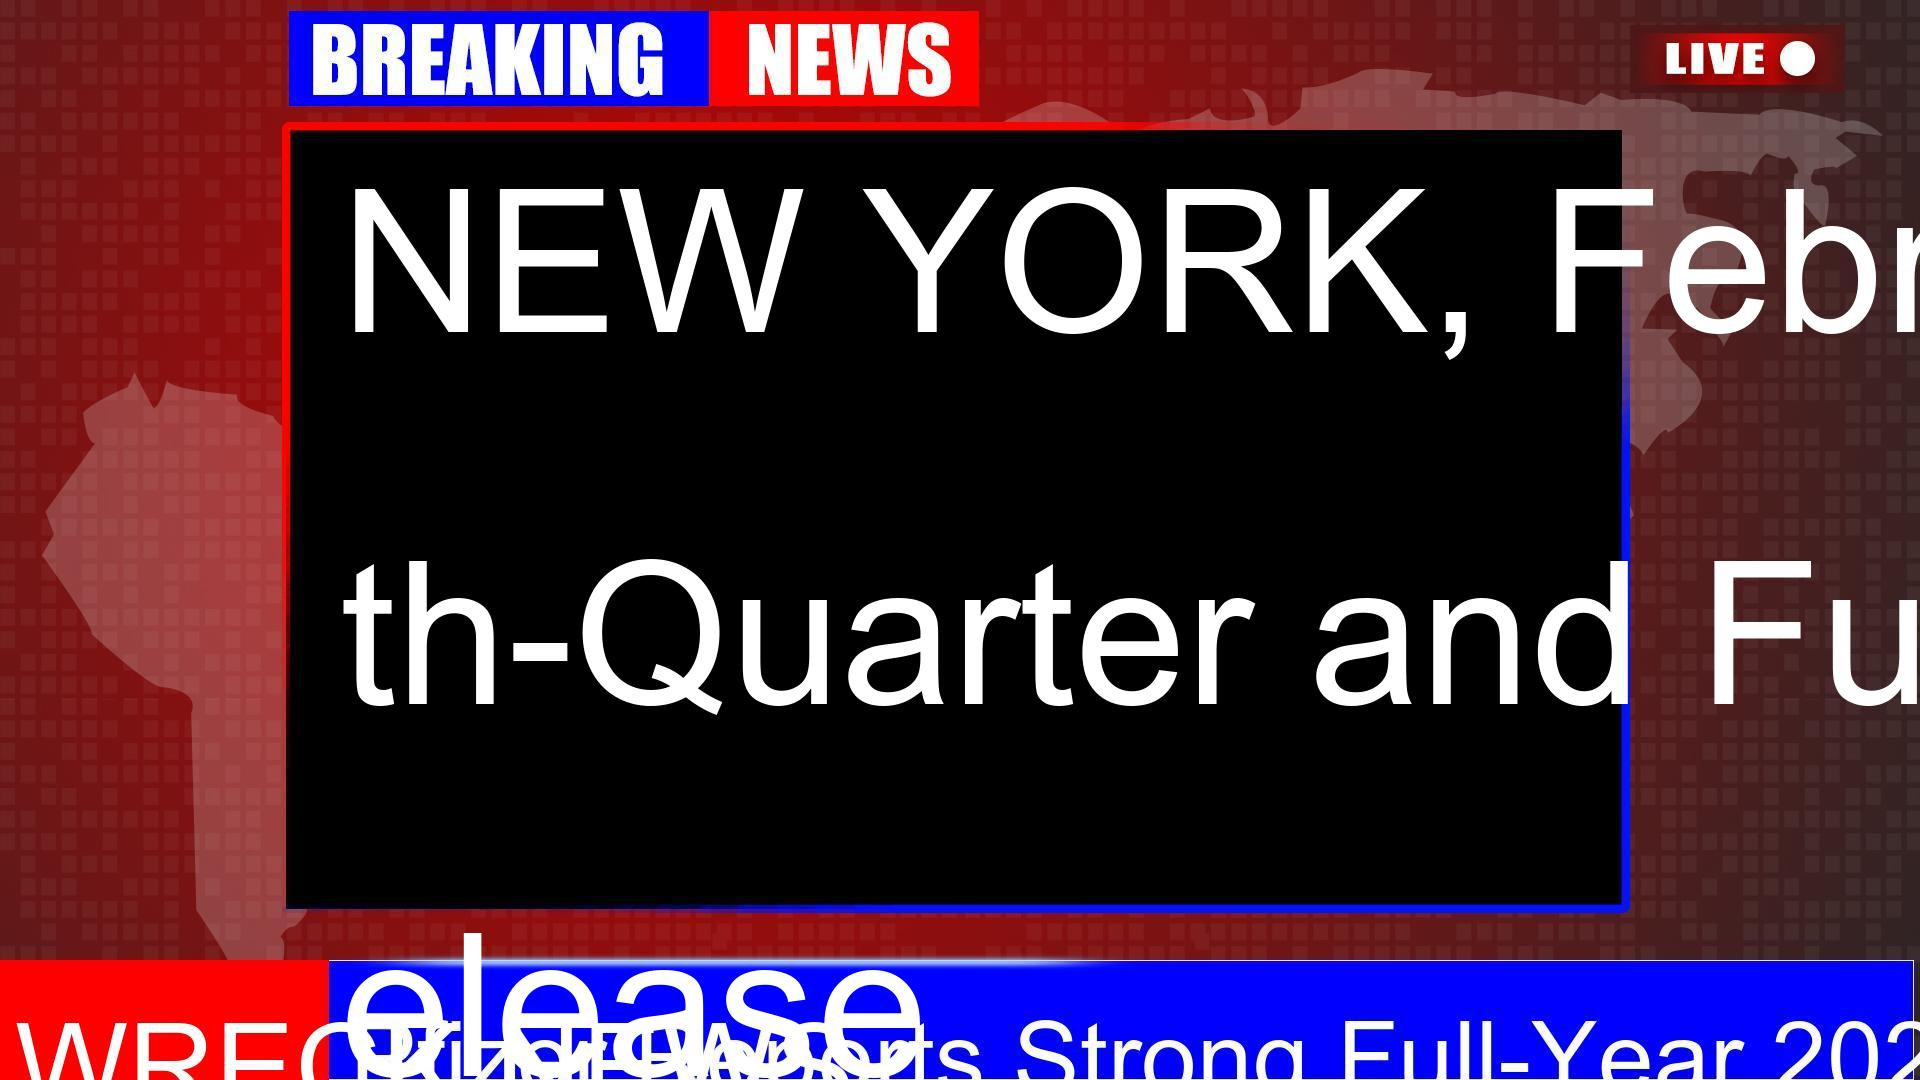
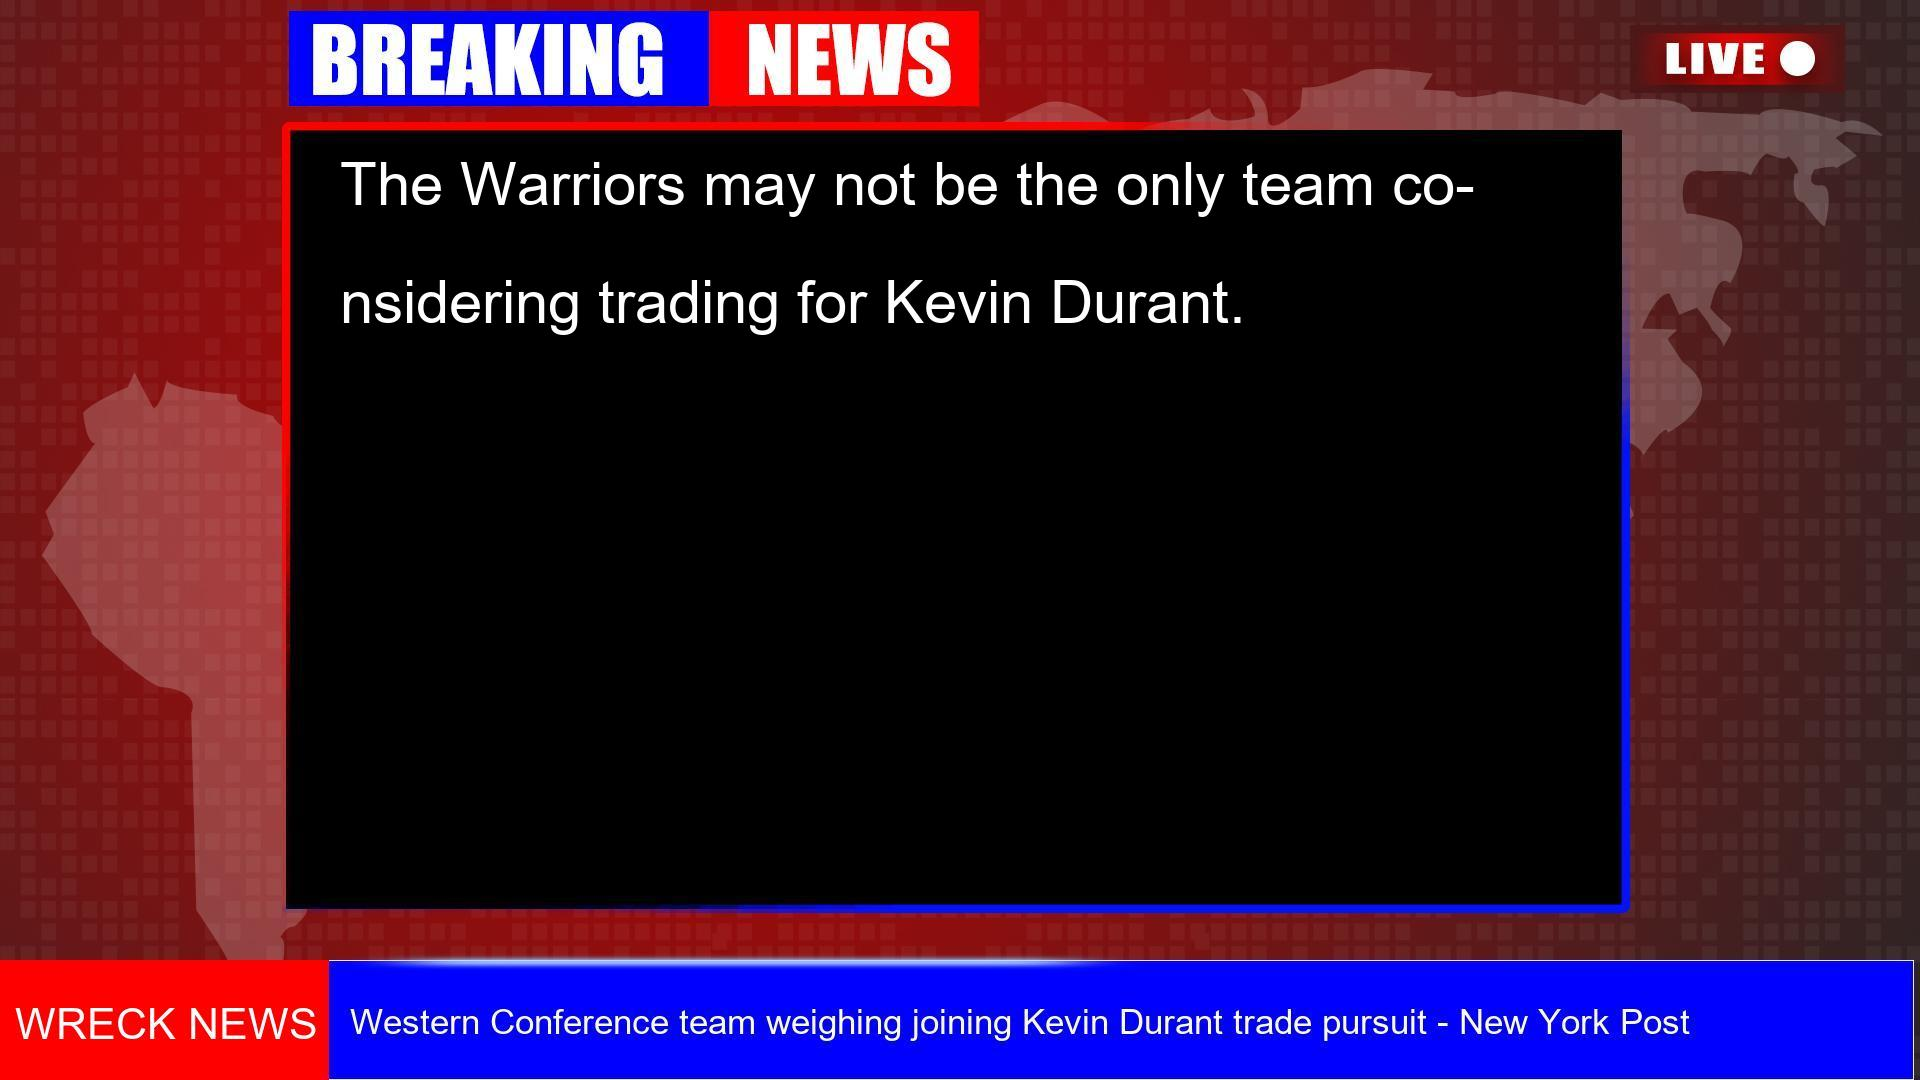
jfahkjf

diff --git a/main.py b/main.py
@@ -1,10 +1,10 @@
 from image_editor import edit_image
-from news import get_news
+from news import getnews
 import instagrapi
 from data_enhancer import add_newlines
 from instagram_logger import login, logout
 # Read headlines from the file
-
+news_api_key = open("newsapikey.txt", 'r').read()
 with open("headlines.txt", 'r+', encoding="utf-8", errors="ignore") as headlines_txt:
 
     existing_headlines = headlines_txt.read().splitlines()
@@ -12,7 +12,7 @@ with open("headlines.txt", 'r+', encoding="utf-8", errors="ignore") as headlines
 
     # Fetch news and check if it's already in the file
     while True:
-        headline, description = get_news(ind)
+        headline, description = getnews(ind, news_api_key)
         if headline is None:
             print("No more headlines available.")
             break

diff --git a/news.py b/news.py
@@ -1,0 +1,12 @@
+from newsapi import NewsApiClient
+def getnews(index, apikey): 
+    newsapi = NewsApiClient(api_key=apikey)
+
+    # Fetch top headlines
+    headlines = newsapi.get_top_headlines(language='en', country='us')
+
+    # Ensure the index is within bounds
+    if index < len(headlines['articles']):
+        return headlines['articles'][index]['title'], headlines['articles'][index]['description']
+    else:
+        return None, None
